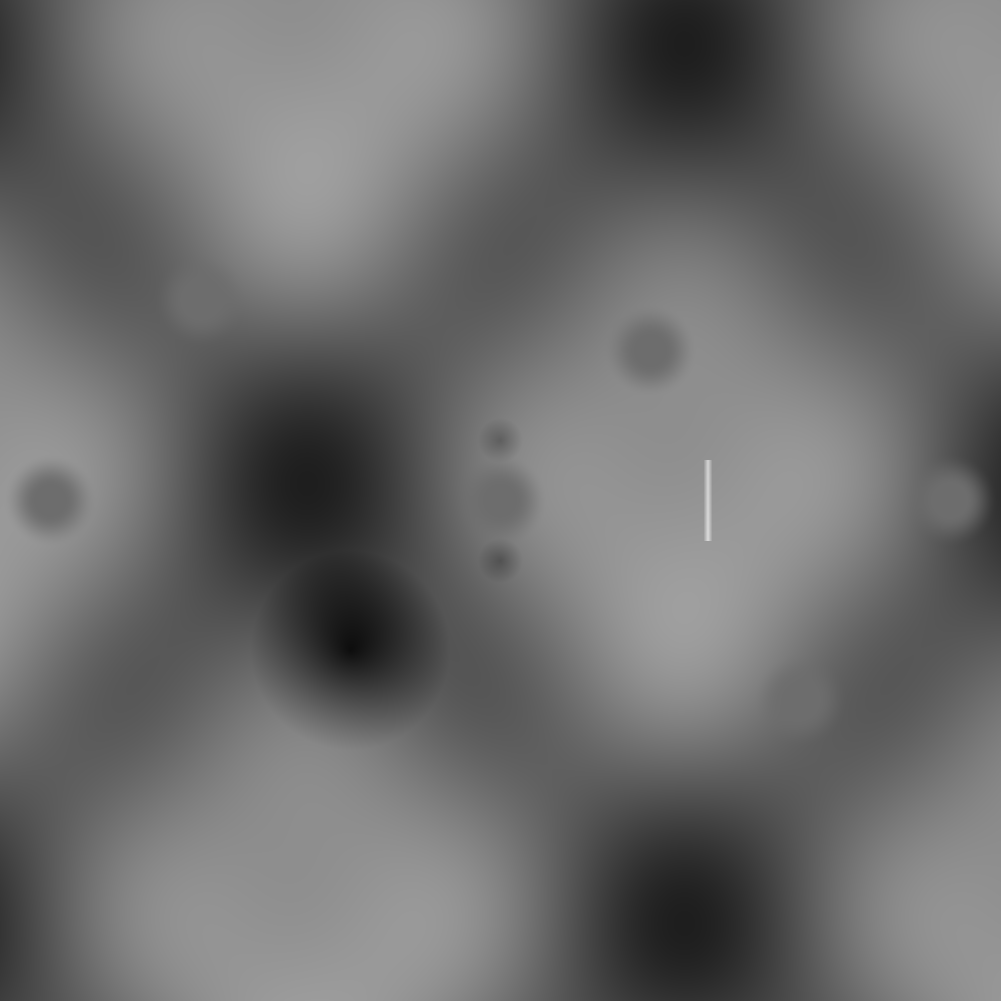
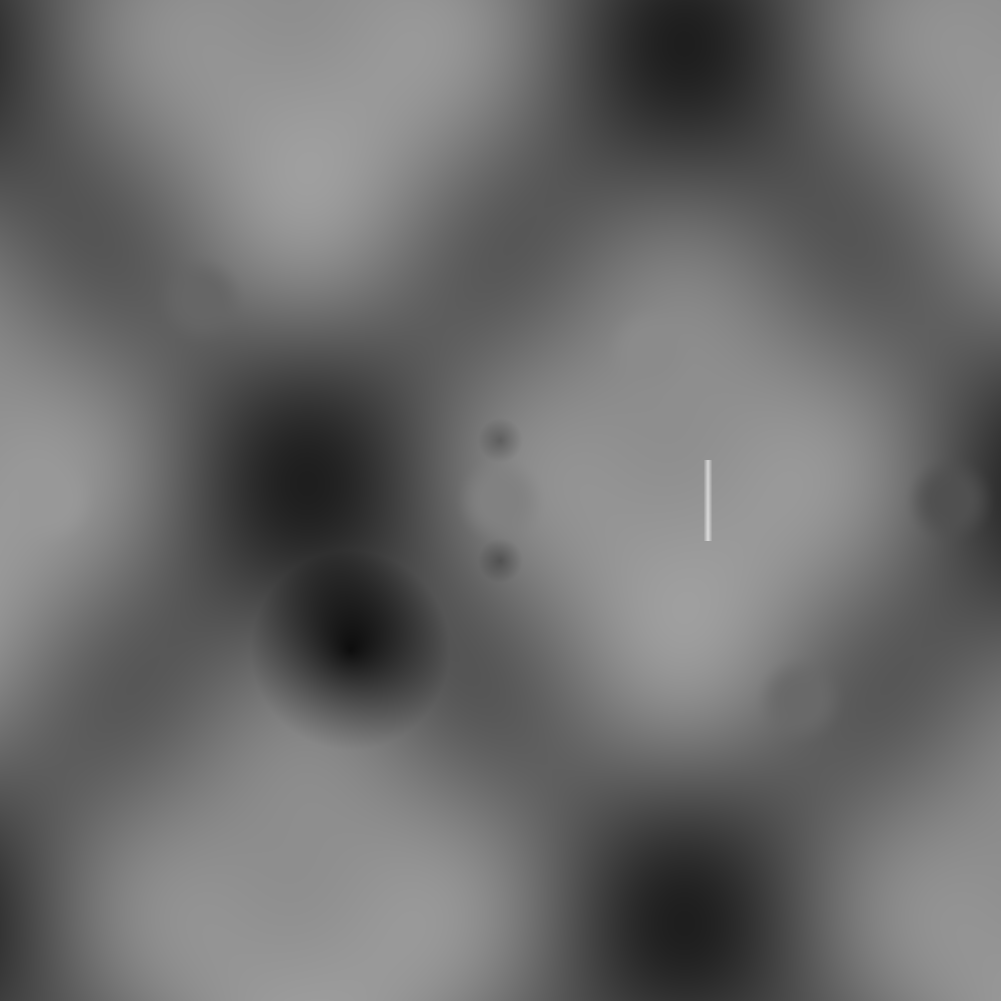
fix(m15): terrain look — matte green (no sky-reflection grey), smooth normals, base pads at local grade (no pit)
Real-GPU playtest feedback:
- Ground read grey at grazing angles, green only head-on = specular fresnel reflecting the bluish sky.
  Terrain material now SPECULAR_DISABLED + metallic_specular 0 -> matte green at all angles.
- Fine 2m grid shimmered (facet moire) with flat per-face normals -> SurfaceTool.index() before
  generate_normals gives smooth per-vertex normals.
- Base pads were flattened to absolute y=0; with ~24 m hills a base where the grade is +18 m became an
  18 m PIT ('underground'). Pads now flatten to the LOCAL grade (natural height at the pad centre) so
  they're flat clearings at the surrounding elevation. Walkable pad edges preserved (max ~22 deg, 0 traps).

Changed region(s): [[0.0, 0.4645, 0.0929, 0.5265], [0.9291, 0.4645, 0.991, 0.5265], [0.6194, 0.3097, 0.6813, 0.3716]]

diff --git a/tools/map_gen.py b/tools/map_gen.py
@@ -301,10 +301,16 @@ def gen_proving_grounds_heightmap(world_half=1000.0, spacing=2.0):
     R0, BLEND = 30.0, 65.0   # wider blend: with ~24 m hills the pad edge must ramp gently (stay < 50 deg)
     flats = [(-900, 0), (900, 0), (-600, -400), (0, 0), (300, -300), (600, 400)]
     for fx, fz in flats:
+        # Flatten to the LOCAL grade (the natural height at the pad centre), NOT absolute 0 — else a base
+        # sitting where the terrain is naturally +18 m becomes an 18 m PIT ("underground"). Sampling the
+        # centre height first makes each pad a flat clearing at the surrounding elevation.
+        cxi = min(max(int(round((fx + world_half) / spacing)), 0), n - 1)
+        czi = min(max(int(round((fz + world_half) / spacing)), 0), n - 1)
+        ch = hm[czi][cxi]
         d = np.hypot(X - fx, Z - fz)
         t = np.clip((d - R0) / BLEND, 0.0, 1.0)
         w = 1.0 - (t * t * (3.0 - 2.0 * t))     # smoothstep: w=1 (flat) inside R0 -> 0 (natural) at R0+BLEND
-        hm = hm * (1.0 - w)                      # inside: hm->0; outside the blend band: unchanged
+        hm = hm * (1.0 - w) + ch * w            # inside: hm->ch (flat at local grade); outside: unchanged
     height_min, height_scale = -45.0, 105.0   # covers the deep valley (~-40) up to hills+ridge (~+55)
     px = np.clip(np.round((hm - height_min) / height_scale * 255.0), 0, 255).astype(np.uint8)
     return px, n, height_min, height_scale
